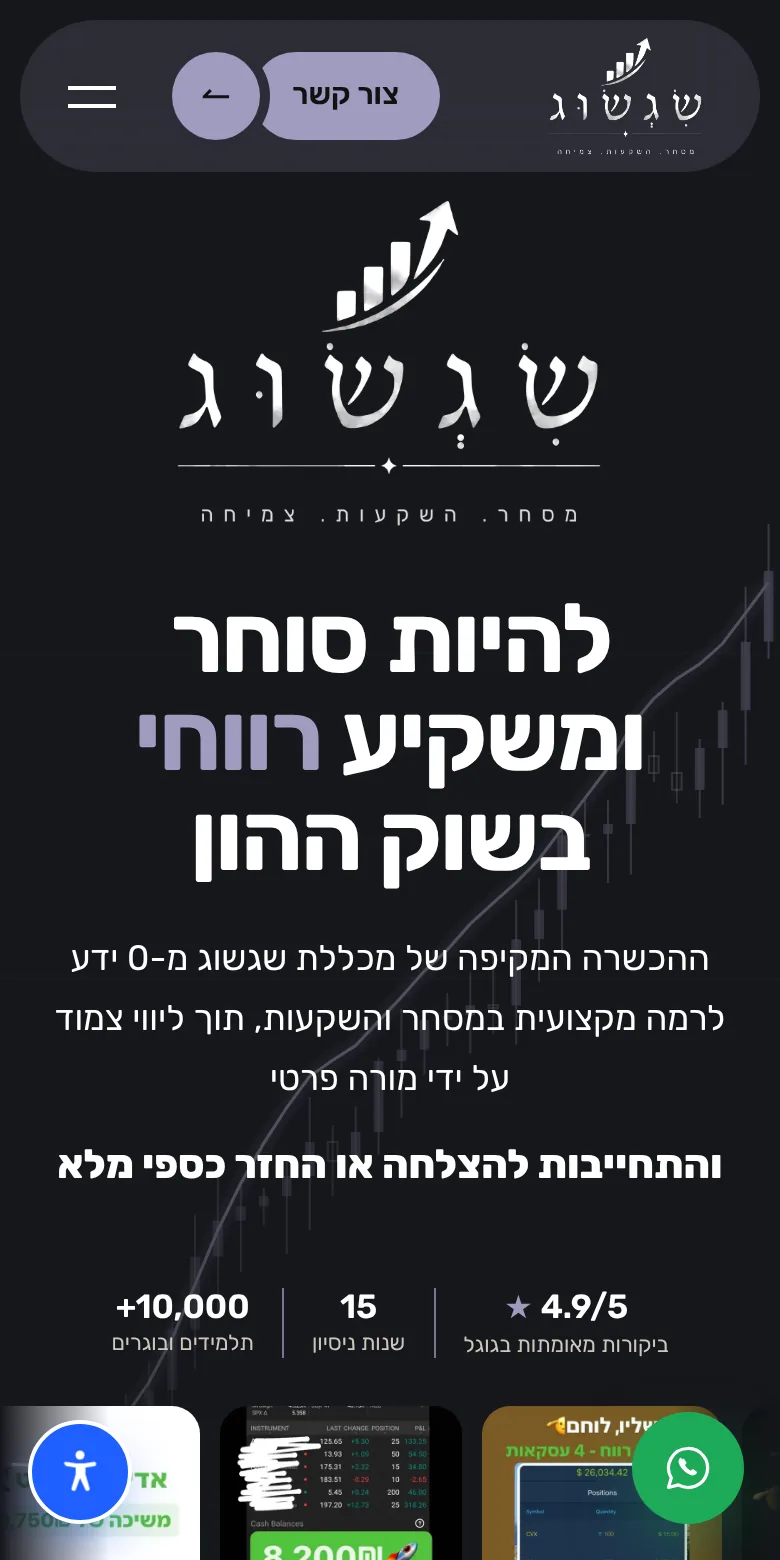
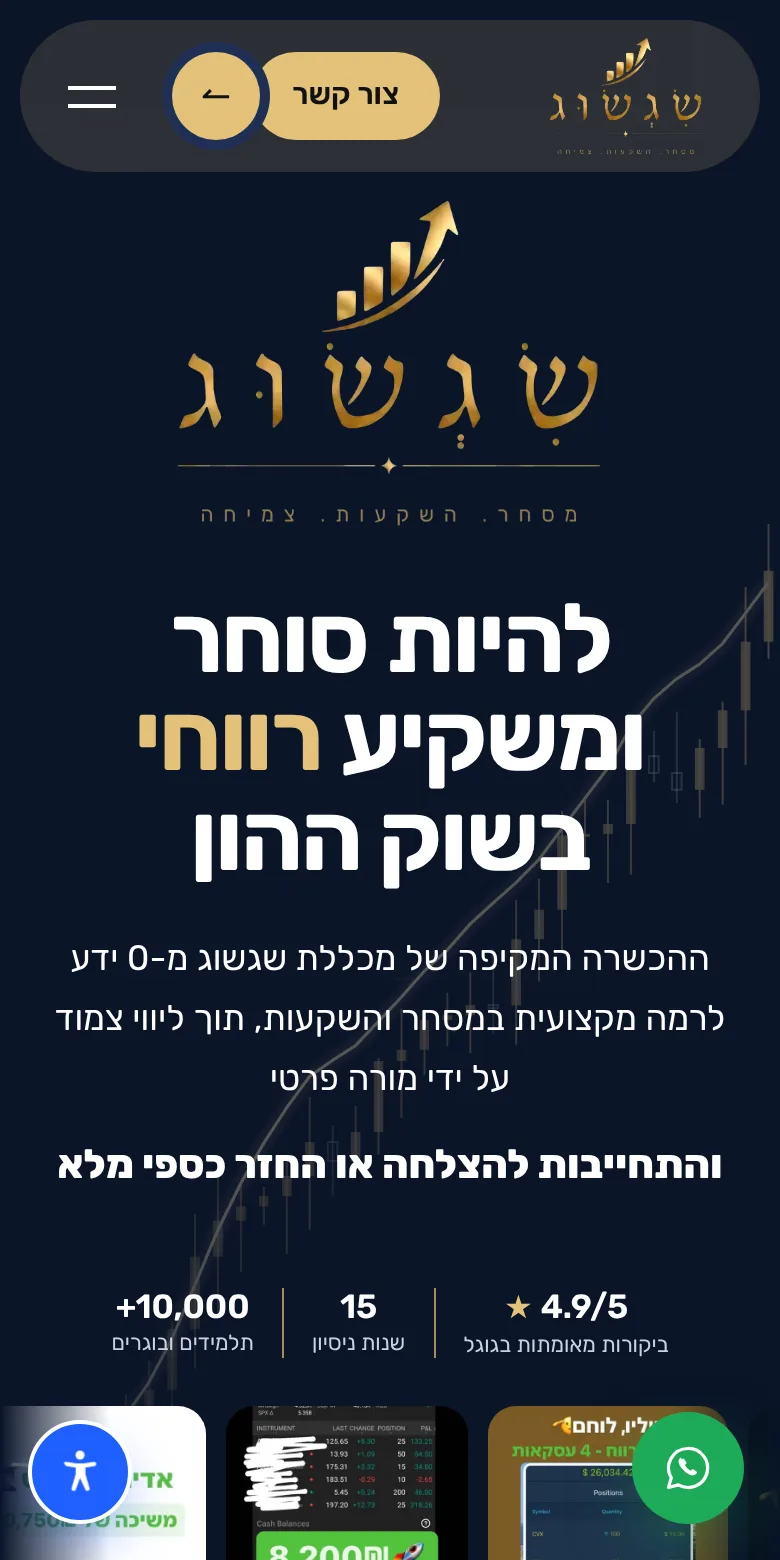
Sigsug portfolio image: navy and gold colors, as on the live site
Claude-Session: https://claude.ai/code/session_01PYLTTUkQWEtzRhyNLjSphZ

diff --git a/index.html b/index.html
@@ -1218,8 +1218,8 @@ main > section{border-top:0!important}
 .x-work-alt{margin-top:72px}
 @media (min-width:900px){.x-work-alt .x-work-visual{order:-1}}
 .br-visual::before{background:radial-gradient(closest-side,rgba(232,150,180,.35),transparent 70%)!important}
-.sg-visual::before{background:radial-gradient(closest-side,rgba(160,150,200,.38),transparent 70%)!important}
-.sg-visual .br-phone{box-shadow:0 40px 90px -30px rgba(160,150,200,.45),0 30px 60px -30px rgba(0,0,0,.6)}
+.sg-visual::before{background:radial-gradient(closest-side,rgba(227,194,122,.30),transparent 70%)!important}
+.sg-visual .br-phone{box-shadow:0 40px 90px -30px rgba(227,194,122,.35),0 30px 60px -30px rgba(0,0,0,.6)}
 .br-phone{position:relative;z-index:1;display:block;width:min(300px,72vw);aspect-ratio:1/2;border-radius:42px;padding:10px;background:#0B1124;border:1px solid rgba(255,255,255,.14);box-shadow:0 40px 90px -30px rgba(232,150,180,.45),0 30px 60px -30px rgba(0,0,0,.8);transform:rotate(-3deg);transition:transform .4s cubic-bezier(.2,.7,.2,1)}
 .br-visual:hover .br-phone{transform:rotate(0) translateY(-6px)}
 .br-phone img{display:block;width:100%;height:100%;object-fit:cover;object-position:top;border-radius:32px}
@@ -1494,7 +1494,7 @@ html.m-on .mag{translate:var(--mx,0px) var(--my,0px)}
       <a class="x-link" href="https://sigsug-college.com" target="_blank" rel="noopener">לאתר של מכללת שגשוג</a>
     </div>
     <a class="x-work-visual br-visual sg-visual" href="https://sigsug-college.com" target="_blank" rel="noopener" aria-label="מכללת שגשוג – פתיחת האתר">
-      <span class="br-phone"><img src="work-sigsug.webp" alt="דף הבית של אתר מכללת שגשוג בטלפון" width="390" height="780" loading="lazy" decoding="async"></span>
+      <span class="br-phone"><img src="work-sigsug.webp?v=2" alt="דף הבית של אתר מכללת שגשוג בטלפון" width="390" height="780" loading="lazy" decoding="async"></span>
     </a>
   </div>
   <div class="wrap">
